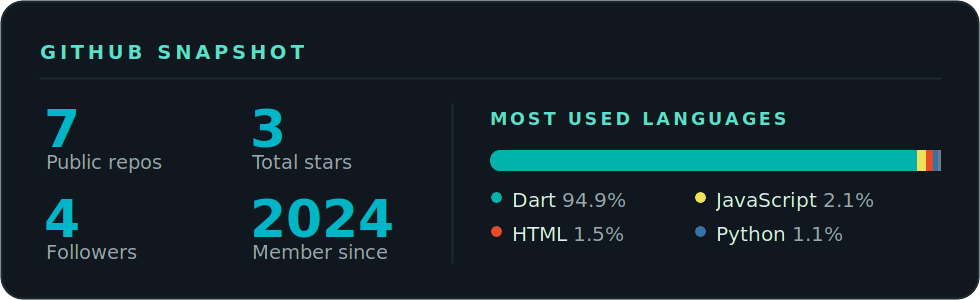
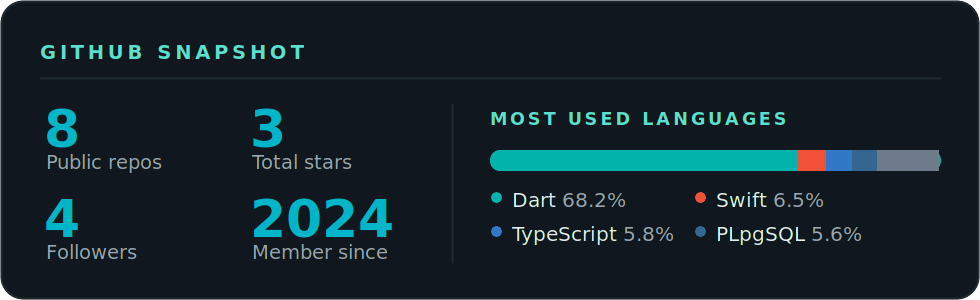
docs: чиним битые ссылки, добавляем Wickly, обновляем статистику
- fern_releases и togetherly_app_releases удалены (404) → ссылки
  на THET1ME-1/Fern и THET1ME-1/Togetherly, сайт Fern на /Fern/
- Togetherly с большой буквы
- карточка Wickly (журнал, шифрование на устройстве, P2P)
- stats.png по факту: 8 репозиториев, Dart 68.2% + Swift/TS/PLpgSQL

diff --git a/README.md b/README.md
@@ -11,8 +11,9 @@
 **I build visually appealing, functional digital products — from 3D scenes to full-stack web and cross-platform mobile apps.**
 
 [![Kadr](https://img.shields.io/badge/Kadr-00B5C7?style=for-the-badge&logo=android&logoColor=white)](https://github.com/THET1ME-1/Kadr)
-[![Fern](https://img.shields.io/badge/Fern-2E9E6B?style=for-the-badge&logo=anki&logoColor=white)](https://github.com/THET1ME-1/fern_releases)
-[![Togetherly](https://img.shields.io/badge/Togetherly-E84D8A?style=for-the-badge&logo=flutter&logoColor=white)](https://github.com/THET1ME-1/togetherly_app_releases)
+[![Fern](https://img.shields.io/badge/Fern-2E9E6B?style=for-the-badge&logo=anki&logoColor=white)](https://github.com/THET1ME-1/Fern)
+[![Togetherly](https://img.shields.io/badge/Togetherly-E84D8A?style=for-the-badge&logo=flutter&logoColor=white)](https://github.com/THET1ME-1/Togetherly)
+[![Wickly](https://img.shields.io/badge/Wickly-C77800?style=for-the-badge&logo=obsidian&logoColor=white)](https://github.com/THET1ME-1/Wickly)
 [![Profile views](https://komarev.com/ghpvc/?username=THET1ME-1&style=for-the-badge&color=334B4F&label=PROFILE+VIEWS)](https://github.com/THET1ME-1)
 
 </div>
@@ -93,8 +94,8 @@ Movie &amp; TV tracker in **Material 3 Expressive** — bold design, rich stats,
 ### 🌿 Fern
 Beautiful **language flashcards** — offline-first, FSRS spaced repetition, learn words from videos, books &amp; photos.
 
-[![Code](https://img.shields.io/badge/Code-181717?style=flat-square&logo=github&logoColor=white)](https://github.com/THET1ME-1/fern_releases)
-[![Website](https://img.shields.io/badge/Website-2E9E6B?style=flat-square&logo=googlechrome&logoColor=white)](https://thet1me-1.github.io/fern_releases/)
+[![Code](https://img.shields.io/badge/Code-181717?style=flat-square&logo=github&logoColor=white)](https://github.com/THET1ME-1/Fern)
+[![Website](https://img.shields.io/badge/Website-2E9E6B?style=flat-square&logo=googlechrome&logoColor=white)](https://thet1me-1.github.io/Fern/)
 
 </td>
 </tr>
@@ -104,10 +105,21 @@ Beautiful **language flashcards** — offline-first, FSRS spaced repetition, lea
 ### 💞 Togetherly
 A cozy app **for couples** — shared moments, home-screen widgets, live map, achievements &amp; time capsules. Open source.
 
-[![Code](https://img.shields.io/badge/Code-181717?style=flat-square&logo=github&logoColor=white)](https://github.com/THET1ME-1/togetherly)
-[![Releases](https://img.shields.io/badge/Releases-E84D8A?style=flat-square&logo=android&logoColor=white)](https://github.com/THET1ME-1/togetherly_app_releases)
+[![Code](https://img.shields.io/badge/Code-181717?style=flat-square&logo=github&logoColor=white)](https://github.com/THET1ME-1/Togetherly)
+[![Releases](https://img.shields.io/badge/Releases-E84D8A?style=flat-square&logo=android&logoColor=white)](https://github.com/THET1ME-1/Togetherly/releases)
 
 </td>
+<td width="50%" valign="top">
+
+### 🕯 Wickly
+A private **journal** — no account, on-device encryption, P2P sync between your own devices, 7 languages. FOSS.
+
+[![Code](https://img.shields.io/badge/Code-181717?style=flat-square&logo=github&logoColor=white)](https://github.com/THET1ME-1/Wickly)
+[![Releases](https://img.shields.io/badge/Releases-C77800?style=flat-square&logo=android&logoColor=white)](https://github.com/THET1ME-1/Wickly/releases)
+
+</td>
+</tr>
+<tr>
 <td width="50%" valign="top">
 
 ### 🃏 ScoreMaster
@@ -116,8 +128,6 @@ A clean **card-game score counter** — rounds, players, session history, stats 
 [![Code](https://img.shields.io/badge/Code-181717?style=flat-square&logo=github&logoColor=white)](https://github.com/THET1ME-1/Card-Score-Counter)
 
 </td>
-</tr>
-<tr>
 <td width="50%" valign="top">
 
 ### 📊 Review Hub
@@ -126,7 +136,9 @@ A **SaaS for review analytics** built with **Next.js** — insights, AI-drafted 
 [![Website](https://img.shields.io/badge/Live-00B5C7?style=flat-square&logo=vercel&logoColor=white)](https://st-statics.com)
 
 </td>
-<td width="50%" valign="top">
+</tr>
+<tr>
+<td colspan="2" valign="top">
 
 ### ➕ More
 The rest of my work lives on my repositories tab.
@@ -143,7 +155,7 @@ The rest of my work lives on my repositories tab.
 
 <div align="center">
 
-<img src="assets/stats.png" width="88%" alt="GitHub snapshot — 7 public repos, 3 stars, 4 followers, member since 2024; most used languages: Dart 94.9%, JavaScript, HTML, Python" />
+<img src="assets/stats.png" width="88%" alt="GitHub snapshot — 8 public repos, 3 stars, 4 followers, member since 2024; most used languages: Dart 68.2%, Swift, TypeScript, PLpgSQL" />
 
 </div>
 
